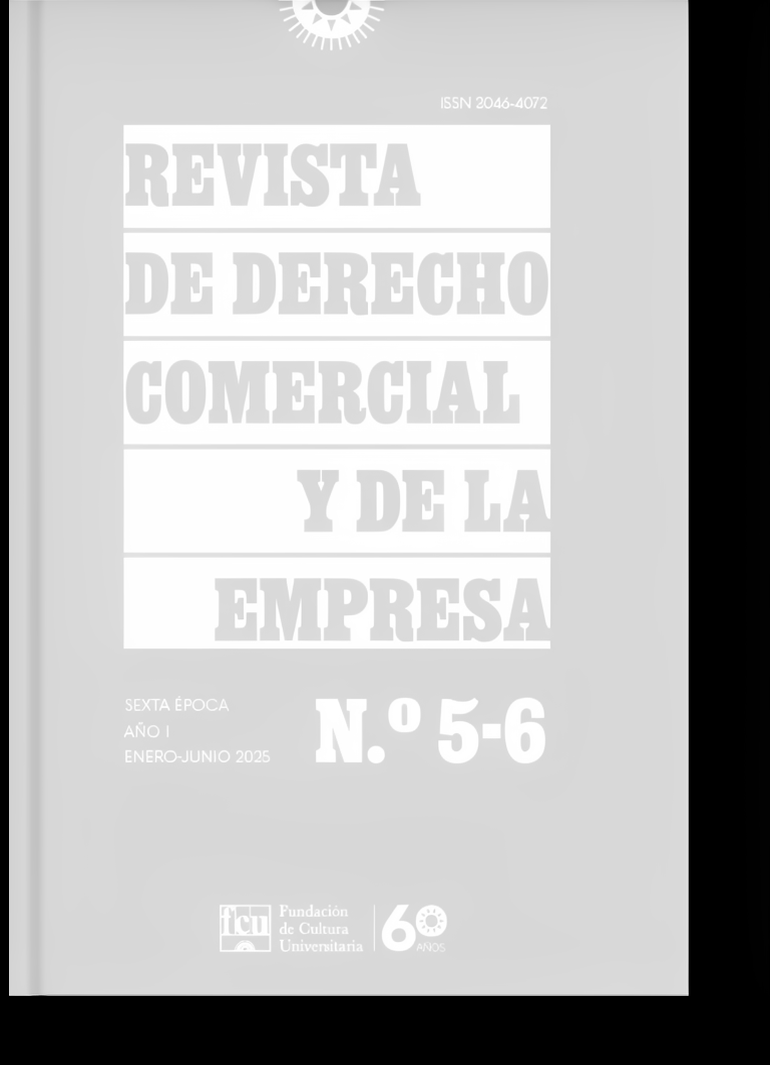
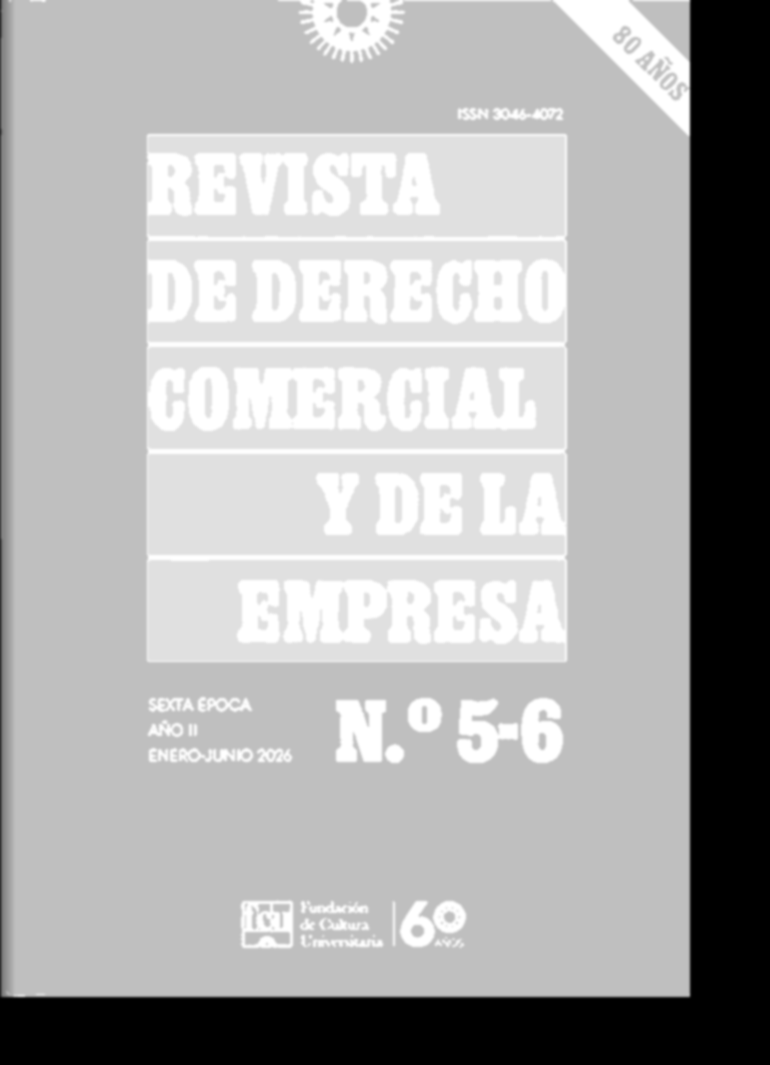
feat: nueva tapa 5-6 en el rig de luz, etiquetas cortas y tilt reducido
Tres cambios independientes:

1. Tapa 5-6 con la diagonal "80 AÑOS". Los cuatro mapas de material se
   regeneraron desde /covers/revista-5-6.webp, alineados al encuadre de los
   mapas viejos (770x1065, libro en x 1-690, y 0-997). El shader y sus 22
   dials quedan intactos: la luz de scroll es el mismo rig.
   - height: papel 0.75, placas 0.88, letras en relieve 1.0, ranura de lomo.
     Este mapa tambien hace de mascara de recorte.
   - roughness: papel mate 0.62, placas 0.30, tinta 0.22.
   - normal: derivado de height; el signo de Y coincide con el mapa viejo,
     asi que uFlipY sigue siendo correcto.

2. Numeros combinados usan meses abreviados ("Set-Oct", "Nov-Dic"). Los
   meses sueltos mantienen el nombre completo. Antes el rango largo se
   partia en dos lineas y empujaba esa revista debajo de la fila.

3. Los anios de tapa oscura conservan 25% del tilt de reposo. Sus bordes
   rectos leian como desalineacion contra el fondo claro. La lista sale de
   la luminancia media de cada tapa, excluyendo las tapas calidas.

Verificado: tsc limpio, build pasa, y en navegador 1950 llega a 0.31 grados
contra 1.14 de 1960.

Claude-Session: https://claude.ai/code/session_01PaDd8gV6eh9fu5yvtNRmRd

diff --git a/components/PublicacionesArchivo.tsx b/components/PublicacionesArchivo.tsx
@@ -72,7 +72,22 @@ function CloseIcon() {
     a slightly different angle, speed and a faint resting tilt — instead of every
     cover flipping identically. Keyed off the issue (year+month) so the server and
     client agree (no hydration flicker), and stable across renders. */
-function bookJitter(seed: number, base: { angle: number; dur: number }) {
+/** Years whose covers are dark blue or near-black cloth. Their straight edges
+    read against the pale ground, so the resting tilt that gives the cream
+    covers their hand-shelved look reads as sloppy alignment instead — these
+    get a fraction of it. Derived from mean cover luminance (<150) excluding
+    the warm orange/red covers (2001, 2004). */
+const DARK_COVER_YEARS = (y: number) =>
+  (y >= 1949 && y <= 1959) || (y >= 1977 && y <= 1992) || y === 1996 || y === 1997 || y === 1999 || y === 2000;
+
+/** How much of the resting tilt a dark-cover year keeps. */
+const DARK_TILT_SCALE = 0.25;
+
+function bookJitter(
+  seed: number,
+  base: { angle: number; dur: number },
+  tiltScale = 1
+) {
   const rnd = (salt: number) => {
     // avalanche hash (murmur3 finalizer) so consecutive issues scatter rather
     // than ramping in lockstep down a row.
@@ -84,7 +99,7 @@ function bookJitter(seed: number, base: { angle: number; dur: number }) {
   const angle = base.angle - 11 + Math.round(rnd(1) * 22);
   return {
     angle,
-    tilt: +((rnd(2) * 2 - 1) * 1.3).toFixed(2), // −1.3…+1.3° resting tilt
+    tilt: +((rnd(2) * 2 - 1) * 1.3 * tiltScale).toFixed(2), // ±1.3° resting tilt
     dur: base.dur - 75 + Math.round(rnd(3) * 150),
     // How far (as a % of the book's own width) the open cover's free edge
     // reaches to the left of the spine — |cos(angle)|, since the cover is
@@ -331,7 +346,8 @@ export default function PublicacionesArchivo({ years }: { years: ArchivoYear[] }
                 // every combined issue onto one identical jitter.
                 const book = bookJitter(
                   active.year * 100 + Number(m.num.slice(0, 2)),
-                  { angle: flip.openAngle, dur: flip.duration }
+                  { angle: flip.openAngle, dur: flip.duration },
+                  DARK_COVER_YEARS(active.year) ? DARK_TILT_SCALE : 1
                 );
                 const bookStyle = {
                   "--open": `${book.angle}deg`,

diff --git a/lib/archivo.ts b/lib/archivo.ts
@@ -19,6 +19,24 @@ const MONTH_LABELS: Record<string, string> = {
   "12": "Diciembre",
 };
 
+/** Short forms, used only when joining a combined issue into a range
+    ("Set-Oct"). A range of two full month names wraps onto a second line in
+    the archive grid and pushes that magazine below the row's baseline. */
+const MONTH_SHORT: Record<string, string> = {
+  "01": "Ene",
+  "02": "Feb",
+  "03": "Mar",
+  "04": "Abr",
+  "05": "May",
+  "06": "Jun",
+  "07": "Jul",
+  "08": "Ago",
+  "09": "Set",
+  "10": "Oct",
+  "11": "Nov",
+  "12": "Dic",
+};
+
 export interface ArchivoMonth {
   num: string; // "06", or "05-06" for combined issues (up to "03-04-05-06")
   label: string; // "Junio", or "Mayo-Junio" for combined issues
@@ -94,7 +112,7 @@ export function getArchivoYears(): ArchivoYear[] {
           const label =
             parts.length === 1
               ? MONTH_LABELS[key]
-              : `${MONTH_LABELS[parts[0]]}-${MONTH_LABELS[parts[parts.length - 1]]}`;
+              : `${MONTH_SHORT[parts[0]]}-${MONTH_SHORT[parts[parts.length - 1]]}`;
           const sumPages: string[] = [];
           if (files.includes(`${key}-sum.jpg`))
             sumPages.push(`/archivo/${yearDir}/${key}-sum.jpg`);

diff --git a/content/paginas/80-anos.md b/content/paginas/80-anos.md
@@ -11,60 +11,14 @@ bibliografiaYears: "(1903–1997)"
 bibliografiaPhoto: "/personas/sagunto-perez-fontana.webp"
 bibliografiaPhotoAlt: "Prof. Sagunto Pérez Fontana en su biblioteca"
 bibliografiaBody:
-  - "<i>Editorial, Revista de Derecho Comercial, 1993</i>"
-  - "El 17 de febrero de este año cumplió su feliz nonagésimo aniversario de vida, el fundador, redactor y «factótum» de esta revista, Profesor Dr. Sagunto F. Pérez Fontana."
-  - "Oriundo de Nueva Palmira, departamento de Colonia, culminó sus estudios de Abogado en diciembre de 1927."
-  - "En marzo de 1938 accedió por concurso de oposición, a una de las Cátedras de Derecho Comercial de la Facultad de Derecho y Ciencias Sociales de la Universidad de la República."
-  - "En 1955 ocupó una segunda cátedra, habiendo desempeñado ininterrumpidamente la titularidad de ambas, hasta su retiro obligatorio impuesto por disposición legal."
-  - "Durante su fecunda y vasta trayectoria docente integró el Consejo de la Facultad de Derecho y desempeñó el decanato interinamente en varias oportunidades."
-  - "En 1987, le fue otorgado el título académico de Profesor Emérito, una distinción que la Facultad de Derecho ha conferido solo en contadas ocasiones, como un justo reconocimiento a la extensa y relevante labor cumplida en esa Casa de Estudios."
-  - "Es bien conocida la producción doctrinal del Profesor Pérez Fontana; tratadista, autor de monografías y de cientos de artículos publicados en nuestro país y en el extranjero, así como redactor de importantes proyectos de ley."
-  - "Un acervo que ha seguido enriqueciendo hasta el presente sin claudicaciones y con la misma calidad y rigor científicos."
-  - "Para quienes como nosotros integramos por su generoso encargo, desde 1987, el Consejo de Dirección de la Revista de Derecho Comercial y de la Empresa, es un privilegio y motivo de especial complacencia, celebrar este aniversario, de quien desde 1944 ha sido su eminente e infatigable propulsor."
-  - "Personalidades como el Profesor Sagunto F. Pérez Fontana, nos ejemplifica que la juventud no es un tiempo de la vida sino que es un estado de espíritu."
-  - "¡Feliz cumpleaños Don Sagunto!"
-  - "Es el sentir de los miles de colaboradores y lectores (ausentes y presentes) de esta publicación entre los que nos incluimos."
-  - "<i>Homenaje, por Dr. Saúl Pérez y Dr. Jorge Mascheroni</i>"
-  - "Un homenaje tiene múltiples funciones. <i>La primera</i> es recordar al homenajeado. Es una manera de decirle gracias por tu ejemplo, gracias por tu obra."
-  - "<i>La segunda</i>, es una expresión de pesar de todos quienes de una forma u otra rendimos tributo de estima y afecto, a alguien que ya no está entre nosotros; es una muestra de afecto y cariño al amigo y al maestro que se fue."
-  - "<i>Tercero</i>, es una forma de decirle a quienes se interesan en el quehacer intelectual, en el desempeño de la profesión de abogado y de docente, que estamos rindiendo honores a quien se lo merece, por haber actuado en su vida rectamente y en el desempeño de su trabajo con ejemplar honestidad."
-  - "<i>Cuarto</i>, es una forma de señalar que el ejemplo del Dr. Pérez Fontana, es un camino a seguir, una vida a imitar, dedicada al estudio del Derecho, que es el estudio de la causa de la libertad y la justicia."
-  - "Como dijera Don Quijote «la libertad es el don más preciado que el hombre ha recibido». La gran tarea del derecho, de la justicia, del jurista está en darle a la libertad una dimensión tal que se garantice como propiedad del individuo y de la sociedad."
-  - "El Dr. Pérez Fontana fue un producto paradigmático de la Universidad uruguaya; participa de la vocación que reafirma los valores de la cultura, la justicia y la moral, como conjunto medular de la vida nacional. Queremos homenajear —tanto al ciudadano— como al abogado, autor y profesor, admirable doctrino formador de generaciones de profesionales."
-  - "Muchos han intentado establecer parámetros precisos y cualidades exactas para definir al «ciudadano». Todos parten de la idea de que sin ciudadanos no hay sociedad política que funcione correctamente, ni relaciones humanas que progresen, ni cultura que se enriquezca, ni moral pública que predomine. Por tanto, como no encontramos una definición abarcativa de las virtudes que exhibía Don Sagunto, decimos concisamente que el ejemplo de ciudadano lo fue el Dr. Pérez Fontana; también distinguido como notable entre sus colegas, como Profesor Emérito de la Facultad de Derecho y Ciencias Sociales de la Universidad de la República."
-  - "Es esta doble condición de universitario y ciudadano excepcional, lo que motiva que hoy tengamos la necesidad de señalarlo como un ejemplo."
-  - "Nuestro homenajeado forjó su senda doctrinaria —y su pensamiento jurídico— como una síntesis humana, social y cultural de la comunidad."
-  - "El Dr. Pérez Fontana concebía al fenómeno jurídico como expresión de la sociedad. Vio al derecho como un producto complejo de la actividad humana, individual y colectivamente expresada, teniendo en cuenta que las normas no surgen de la pluma de un letrado; resultan de situaciones precursoras que se nutren de exigencias reales, de necesidades históricas, de un entorno de ideas que expresan la capacidad innovadora de la comunidad."
-  - "Sagunto Felipe Pérez Fontana, nació en Nueva Palmira, Departamento de Colonia, el 17 de febrero de 1903, donde pasó su niñez. Finalizados los estudios secundarios ingresó a la Facultad de Derecho y Ciencias Sociales de Montevideo para cursar los estudios de abogacía en el año 1923, los que culminó en 1927, dedicándose al ejercicio de la profesión."
-  - "El año 1938 ganó por concurso de oposición una Cátedra de Derecho Comercial en los cursos de Notariado. El año 1955 obtuvo por nombramiento directo otra cátedra en los mismos cursos en la que cesó por haber llegado al límite de edad al que se agregaron otros 4 años el año 1971."
-  - "En el año 1949 ingresó al Consejo de la Facultad de Derecho en representación de los profesores por un período de 4 años y en el año 1957 volvió a ejercer la misma representación en la cual cesó el año 1967 como consecuencia de lo dispuesto por la ley."
-  - "En distintas oportunidades desempeñó el Decanato Interino de la Facultad y, en ese carácter, el Consejo Central de la Universidad."
-  - "Destacado profesor desde su ingreso a la Cátedra, se prodigó generosamente en eruditas publicaciones que abordaron fundamentalmente los temas de su especialidad:"
-  - "1. En 1963 publicó <b>«La reforma de la legislación sobre cheques»</b>.<br>2. <b>«Sociedades Anónimas»</b>, 1965.<br>3. <b>«Derecho Bancario»</b> — 4 estudios.<br>4. <b>«Sociedad Anónima en el derecho uruguayo»</b>, 1969.<br>5. <b>«El control de la banca privada en el Uruguay»</b>, 1966.<br>6. <b>«Ahorro y préstamo para la vivienda»</b>, 1964, 2.ª edición 1973.<br>7. <b>«Aspectos civiles y penales del cheque sin fondos y de pago diferido»</b>, 1961.<br>8. <b>«Fusión de Sociedades»</b>, 1970.<br>9. <b>«Revocación de las sociedades comerciales»</b>. «Reactivación». Depalma, 1983.<br>10. <b>«Manual de Sociedades Anónimas»</b>, 1987.<br>11. <b>«Manual de Sociedades de Responsabilidad Limitada y Sociedades Accidentales»</b>.<br>12. <b>«La tarjeta de crédito»</b>. «Estudio de derecho comparado Argentino-Uruguayo», 1989."
-  - "También publicó sus trabajos en el exterior, específicamente una reseña del régimen legal al que están sometidas las sociedades anónimas en el Uruguay en <i>Inchieste di Diritto Comparato. Inqueste comparative sur les sociétés par actions</i>, dirigida por el profesor Mario Rotondi. Publicación del Instituto di diritto comparato, Milano, 1974."
-  - "<b>La Unificación del Derecho de las Obligaciones</b>, publicado en <i>Inghieste di Diritto Comparato</i>, dirigida por el profesor Mario Rotondi, Padova, 1973."
-  - "<b>Ley de Títulos Valores.</b> Como integrante de la comisión de la Reforma del Código de Comercio preparó un anteproyecto de ley sobre títulos valores que fue llevado al Consejo de Gobierno del que se segregó la parte relativa a la disciplina del cheque. Este proyecto fue aprobado como ley sobre Títulos Valores."
-  - "En 1946 fundó la <b>Revista de Derecho Comercial, Sociedades Anónimas</b>, que actualmente se publica con el nombre de <b>Revista de Derecho Comercial y de la Empresa</b>; la que dirigió hasta hace pocos años."
-  - "Es autor de numerosos artículos publicados en la <b>Revista de Derecho Comercial y de la Empresa</b>, cuyo número alcanza aproximadamente a 2 centenares."
-  - "¿Podemos señalar algunas características de las obras del Dr. Pérez Fontana?"
-  - "Varios aspectos pueden destacarse sin temor. En principio se trata de un autor cuyo dominio del derecho no se limita a la materia de su especialidad, con un estilo de escribir austero y medido. Todo ello no ha impedido que a través de sus numerosos trabajos haya realizado también docencia, divulgación y análisis."
-  - "Todas estas características son propias de aquellos profesionales que elaboran su reflexión desde una posición poco frecuente y más compleja, que es la del alto jurista (al decir del mexicano Héctor Fix Zamudio), el auténtico jurisconsulto, sin compromisos, al margen de intereses y afinidades."
-  - "Una inteligencia como la del Dr. Pérez Fontana, sabe cual es el límite de lo posible y la medida de lo necesario, y por ello su opinión estuvo también presente a la hora de encarar reformas legislativas. Recordamos sus proyectos sobre reorganización del Registro Público de Comercio publicado en la Revista de Derecho Comercial y Sociedades Anónimas, tomo VII, año 1952; sobre Sociedades anónimas publicado en los Nos. 110, 111, y 112 de la Revista Sociedades Anónimas. Sobre compraventa de bienes muebles corporales. Sobre reglamentación del funcionamiento de las sociedades de Ahorro y Préstamo; sobre sociedades comerciales publicado en la Revista de Derecho Comercial de la Empresa, año 1982. Este proyecto es sustitutivo de otro que no fue publicado. Es el antecedente de la actual ley de sociedades comerciales."
-  - "Otra importantísima faceta de la actuación del Dr. Pérez Fontana, producto de su vocación universitaria, y en la que destacó con brillantez y profundos conocimientos, fue su vinculación y actividades en sociedades científicas de los que formó parte."
-  - "Fundó la Sociedad de Estudios Legislativos y de Derecho Comparado, de la que fue secretario mientras dicha sociedad estuvo en funcionamiento."
-  - "Fundó el Instituto Uruguayo de Derecho Comercial ejerciendo la vicepresidencia mientras éste funcionó. Fue miembro de la Asociación Uruguaya de Derecho Marítimo."
-  - "Fue fundador y vicepresidente de la Asociación Internacional del Derecho de los Seguros."
-  - "Fue miembro correspondiente del Instituto de Derecho Comparado de México."
-  - "Fue miembro honorario del «Círculo de Derecho Mercantil y de la Navegación» de Buenos Aires."
-  - "Miembro correspondiente de la Asociación de Derecho Comercial de Buenos Aires, año 1961."
-  - "Miembro del Instituto Internacional de Estudio y Documentación en Materia de Concurso Comercial con sede en Bruselas."
-  - "Miembro correspondiente del Instituto de Derecho Comercial de la Universidad de El Salvador, Buenos Aires, año 1963."
-  - "Miembro correspondiente del Instituto Dos Advogados Brasileiros."
-  - "Integró la representación uruguaya en los más diversos foros internacionales, donde destacó tanto por sus amplios y profundos conocimientos, como por los trabajos que presentó."
-  - "Nuestro más sentido homenaje al querido Profesor y al fundador de esta Revista."
-  - "Esta enunciación de algunas de sus realizaciones basta para ilustrarnos sobre una trayectoria excepcionalmente fecunda."
-  - "Por ello en esta hora, nuestro sentimiento no debe ser de pesar, sino de satisfacción al ser una vida tan intensamente vivida."
-  - "<i>Dr. Saúl Pérez — Dr. Jorge Mascheroni</i>"
+  - "El profesor Sagunto Felipe Pérez Fontana nació el 17 de febrero de 1903 en el entonces pueblo de Nueva Palmira, Departamento de Colonia (Puerto de las Higueritas y Fondeadero de San Lázaro, señalado en la historia desde 1527), donde transcurrió su niñez. Fue el cuarto de nueve hijos de Vicente Antonio Pérez y Ana Manuelita Fontana. Nieto del inmigrante ligur Felipe Fontana, próspero empresario, fundador de Molino Nueva Palmira, pionero e impulsor desde mediados del siglo XIX de este núcleo urbano. Casado con Elsa Prando Bauzá, no tuvo descendencia."
+  - "Sagunto Felipe fue hermano de Velarde Pérez Fontana, médico, anatomista, cirujano, profesor de patología quirúrgica y de clínica quirúrgica infantil, historiador de la medicina y prolífico escritor. También fue hermano de un marino y estudioso destacado, el Capitán de Navío Hispano Pérez Fontana. El liceo de Nueva Palmira lleva el nombre de otro de sus hermanos: Meludio Pérez Fontana, en homenaje a su aporte a la ciudad."
+  - "Finalizados sus estudios secundarios en su Nueva Palmira natal, ingresó a la Facultad de Derecho y Ciencias Sociales de la Universidad de la República en 1923, egresando con el título de Doctor en Derecho y Ciencias Sociales en 1927. En sus primeros años, se dedicó al ejercicio de la profesión de abogado, primero en Colonia y luego en Montevideo."
+  - "En el año 1938 ganó por concurso de oposición una cátedra de Derecho Comercial para los cursos de Notariado en la Facultad de Derecho. En el año 1955 obtuvo, por nombramiento directo, una segunda cátedra de Derecho Comercial, en la misma carrera. Ejerció la docencia en la Facultad de Derecho de la Universidad de la República hasta el año 1976, cuando se retiró por haber superado el límite de edad fijado para la función. En diversos períodos integró el Consejo de la Facultad de Derecho y, por períodos, ejerció como decano interino. El 1987 la Facultad le otorgó el título de Profesor Emérito."
+  - "Autor de numerosas y valiosas obras que enriquecieron la literatura jurídica nacional. Entre las mismas deben destacarse los siguientes libros: “La reforma de la legislación sobre cheques” (1963), “Sociedades anónimas” (1965); “Derecho bancario – 4 estudios” (1978); Sociedad anónima en el derecho uruguayo” (1969); “El control de la banca privada en el Uruguay” (1966); “Ahorro y préstamo para vivienda” (1964); “Aspectos civiles y penales del cheque sin fondos y de pago diferido” (1961); “Fusión de sociedades” (1970); “Concordato preventivo de las sociedades anónimas” (1982); “Revocación de las sociedades comerciales – Reactivación” (1983); “Manual de sociedades anónimas” (1983); “Manual de sociedades de responsabilidad limitada y sociedades accidentales” (1986); “La tarjeta de crédito – Estudios de derecho comparado argentino-uruguayo” (1989); “Cuadernos de derecho bancario” (1988-1989); “Manual de Derecho Comercial (1994); “Crédito documentado” (1994); “La propiedad horizontal” (1995); y, su obra más importante: “Títulos Valores. Obligaciones cartulares”, publicada en cinco volúmenes entre 1980 y 1985. A estas obras se suman docenas de artículos, sobre los más diversos temas de su especialidad, publicados en el país y en el exterior."
+  - "Participó en la Comisión redactora del proyecto de Ley de Títulos Valores; autor, por encargo del Ministerio de Justicia, de los proyectos de Ley de Sociedades Comerciales (precursor de la ley vigente) y de un proyecto de reforma del régimen de concordatos preventivos."
+  - "En 1946 fundó, y dirigió luego por 40 años, la Revista de Derecho Comercial, Sociedades Anónimas, que actualmente se continúa publicando bajo el nombre Revista de Derecho Comercial y de la Empresa, la cual ostenta el galardón de ser la revista de derecho comercial más antigua de Latinoamérica. Sus páginas resumen la historia y la evolución del pensamiento jurídico uruguayo en materia comercial y empresarial en los últimos 80 años."
+  - "El profesor Pérez Fontana falleció en Montevideo el 31 de mayo de 1997, dejando un invalorable legado para el Derecho Comercial uruguayo."
 librosImage: "/80-anos-libros.jpg"
 librosAlt: "Tomos encuadernados de la Revista de Derecho Comercial – Sociedades Anónimas (1947-1953)"
 librosBody:
